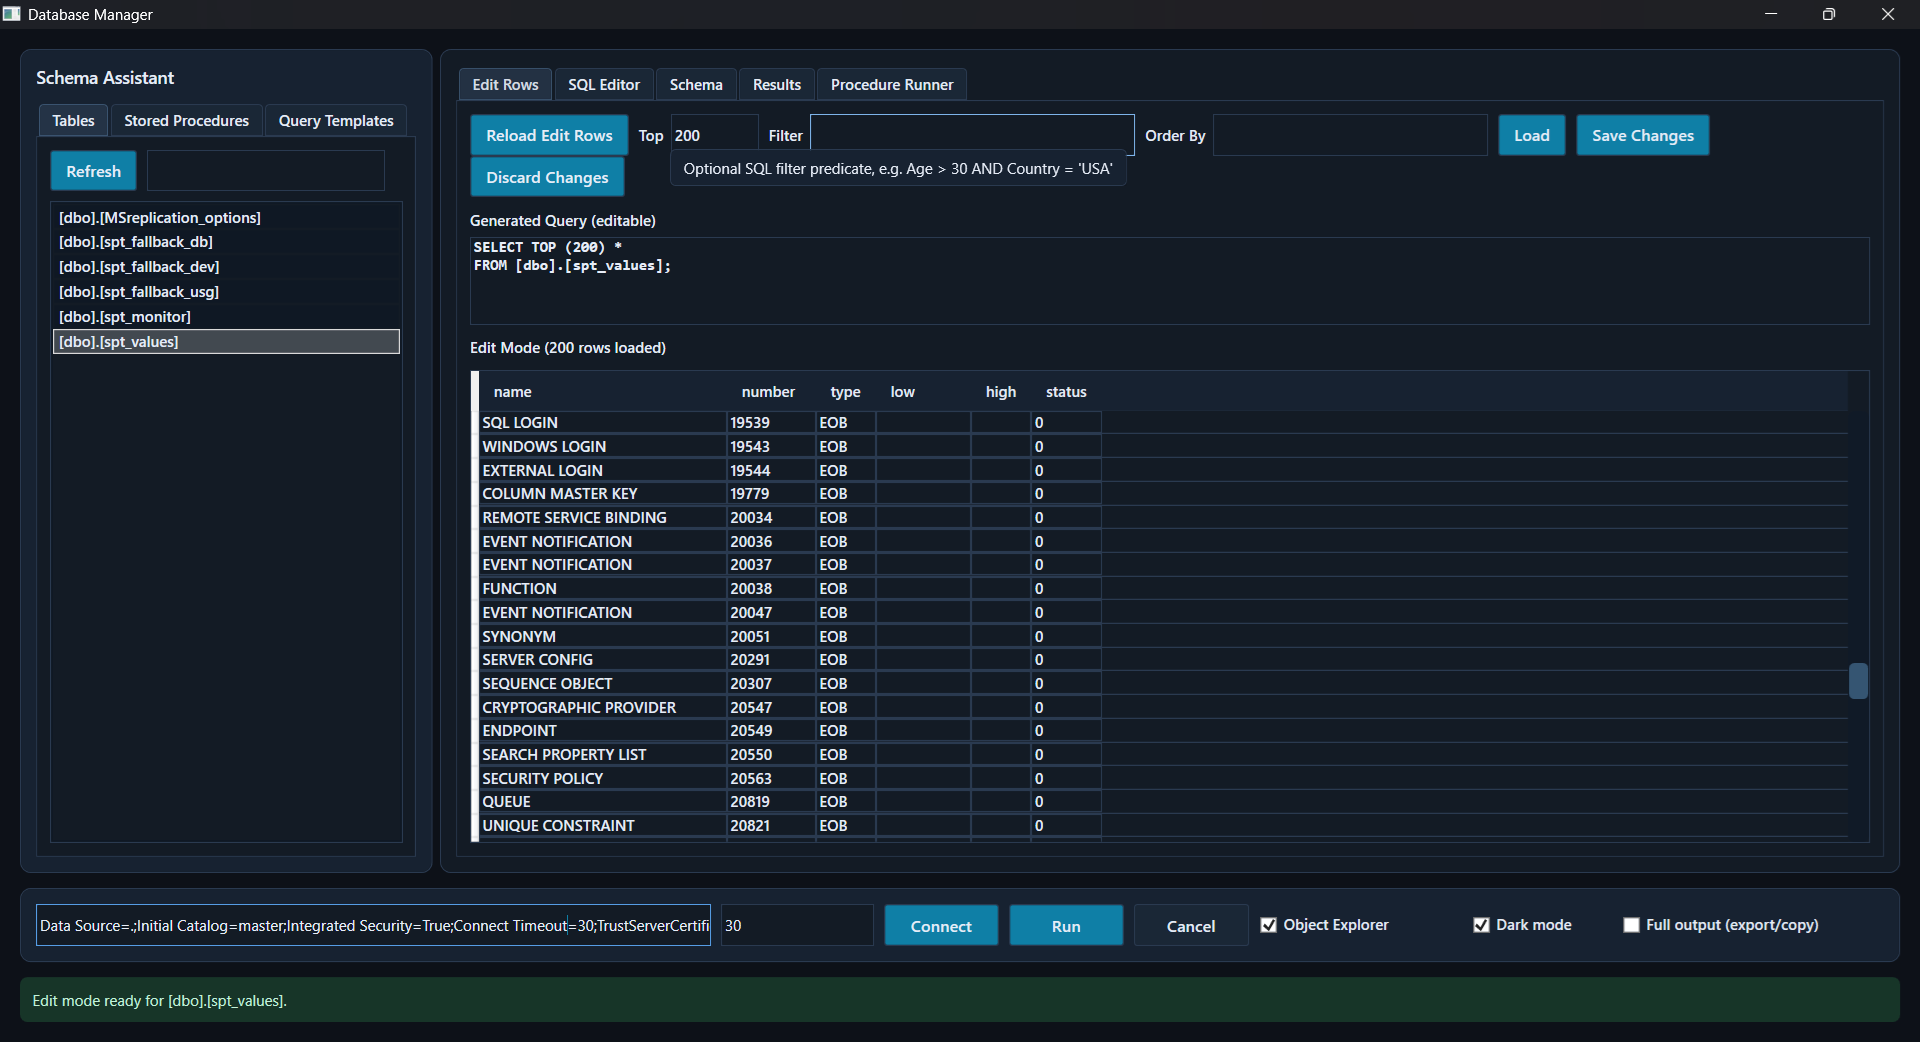
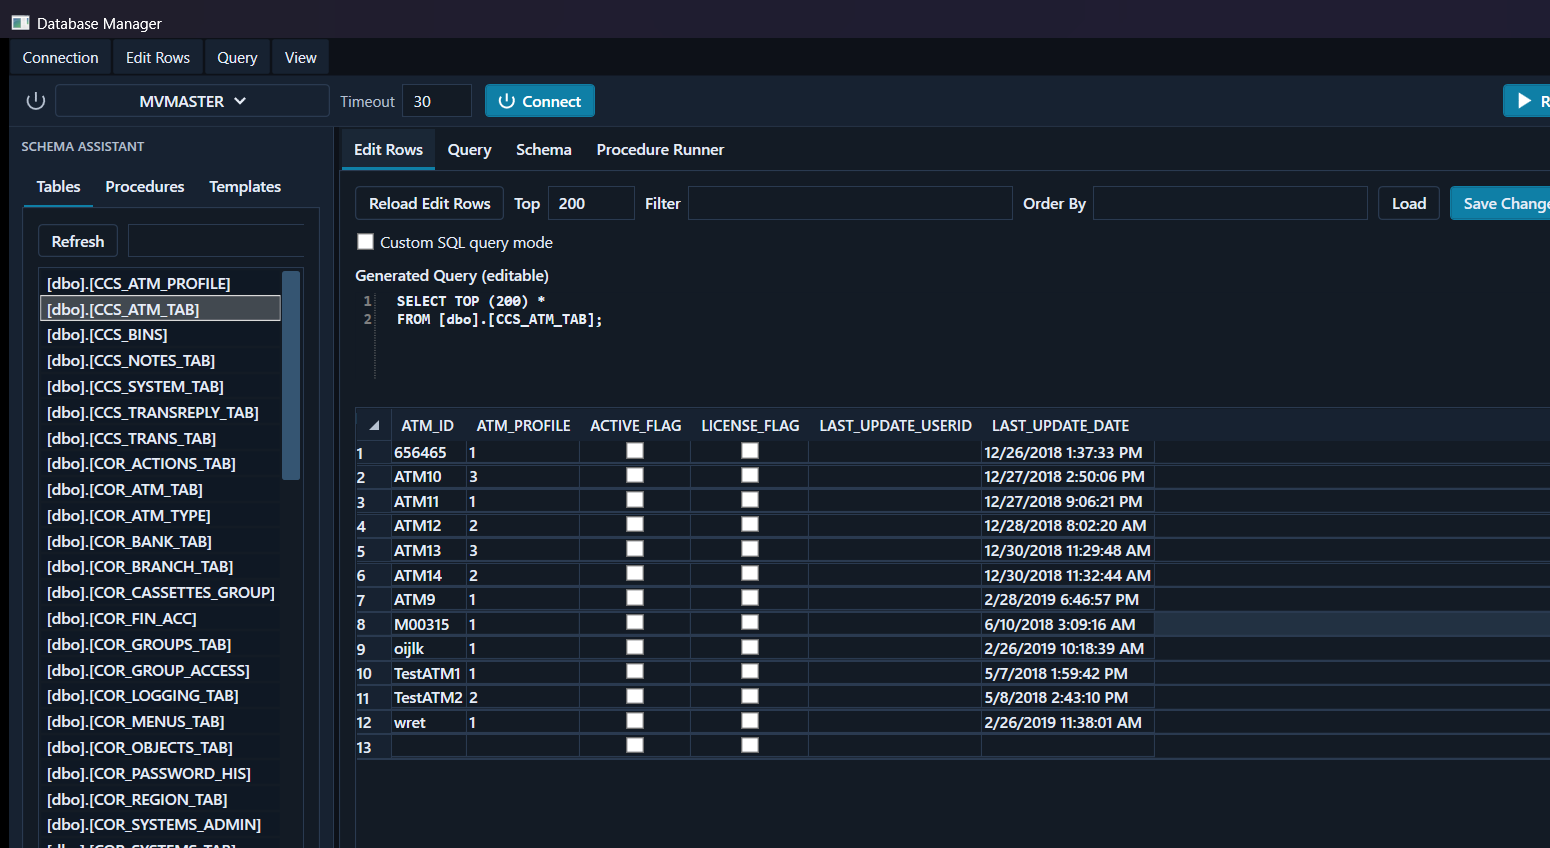
docs: refresh README screenshots for current UI, add Query/Procedure Runner/Connection Picker/Command Palette
Captured via a window-only PrintWindow grab driven by UI Automation (Invoke/Select/ValuePattern -
no simulated mouse/keyboard input), against a live SQL Server connection using the CCS_ATM_TAB
table as agreed. Replaced the two stale screenshots (Edit Rows, Schema - predating the whole
MVVM/visual overhaul) and added four new ones for features that didn't have a screenshot yet.

Data-safety handling, since these are committed images:
- Connection Picker: the two real saved profiles' connection-string previews are pixel-redacted
  (computed from their actual UI Automation bounding rectangles, painted over post-capture). The
  visible profile is a throwaway "Demo (Windows Auth)" entry added just for this screenshot -
  Trusted_Connection against the local SQL Express instance, so it has no password at all and
  still demonstrates a real, successful auto-fetch. Deleted after capture.
- Also caught and fixed: the raw connection-string box initializes from whatever's currently
  connected, so it silently carried the real MVMASTER password into the first capture attempt -
  overwritten with a placeholder before the kept version.
- Procedure Runner: the Procedures sidebar list is pixel-redacted too (real procedure names hint
  at business integrations - Vodafone, Forex, wallet transactions - beyond the single table the
  user scoped this to); captured in its default "No procedure selected" state instead, since
[…]

diff --git a/README.md b/README.md
@@ -22,7 +22,16 @@ DatabaseManager combines query authoring, schema exploration, template managemen
 
 ## Screenshots
 
-Save the screenshots under `docs/images/` using the filenames below, then they will render here automatically.
+Screenshots live under `docs/images/`. **If you recapture any of these, use a placeholder/demo
+connection profile first** — the Saved Connections list and the raw connection-string box both
+render the connection string in full, password included.
+
+### Query Tab
+
+Multiple open documents in the strip, one running a query with results below. (Pin/color aren't
+shown here — capturing those needs a right-click context menu interaction.)
+
+![Query Tab](docs/images/query-tab.png)
 
 ### Edit Rows Tab
 
@@ -31,6 +40,25 @@ Save the screenshots under `docs/images/` using the filenames below, then they w
 ### Schema Tab
 
 ![Schema Tab](docs/images/schema-tab.png)
+
+### Procedure Runner Tab
+
+![Procedure Runner Tab](docs/images/procedure-runner-tab.png)
+
+### Connection Picker
+
+The unified view: saved connections with their (dimmed) connection string preview, the raw
+connection-string box, and the auto-fetched Databases list. The two real saved profiles' previews
+are redacted here; the visible one is a throwaway Windows-Auth demo entry used only to
+demonstrate the layout.
+
+![Connection Picker](docs/images/connection-picker.png)
+
+### Command Palette
+
+`Ctrl+Shift+P` (or View menu → Command Palette), fuzzy-searchable.
+
+![Command Palette](docs/images/command-palette.png)
 
 ## Tech Stack
 
